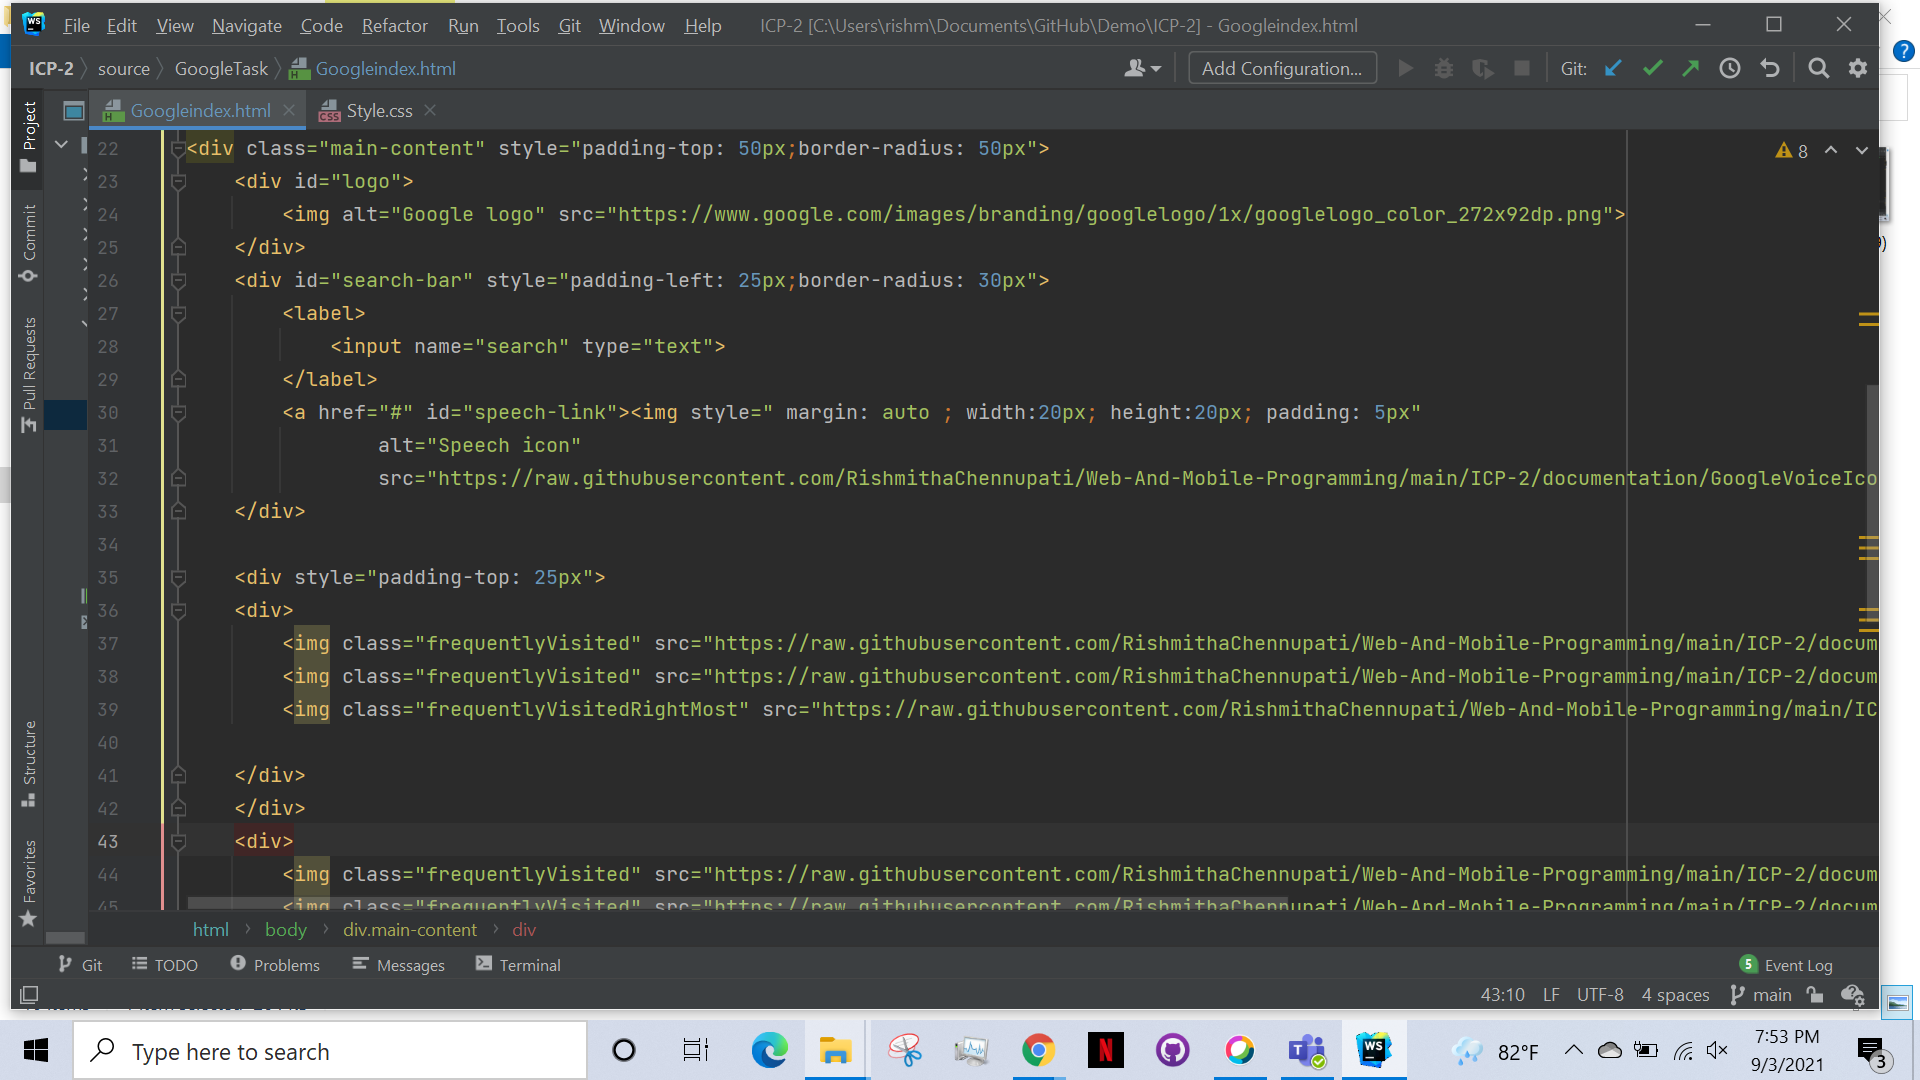
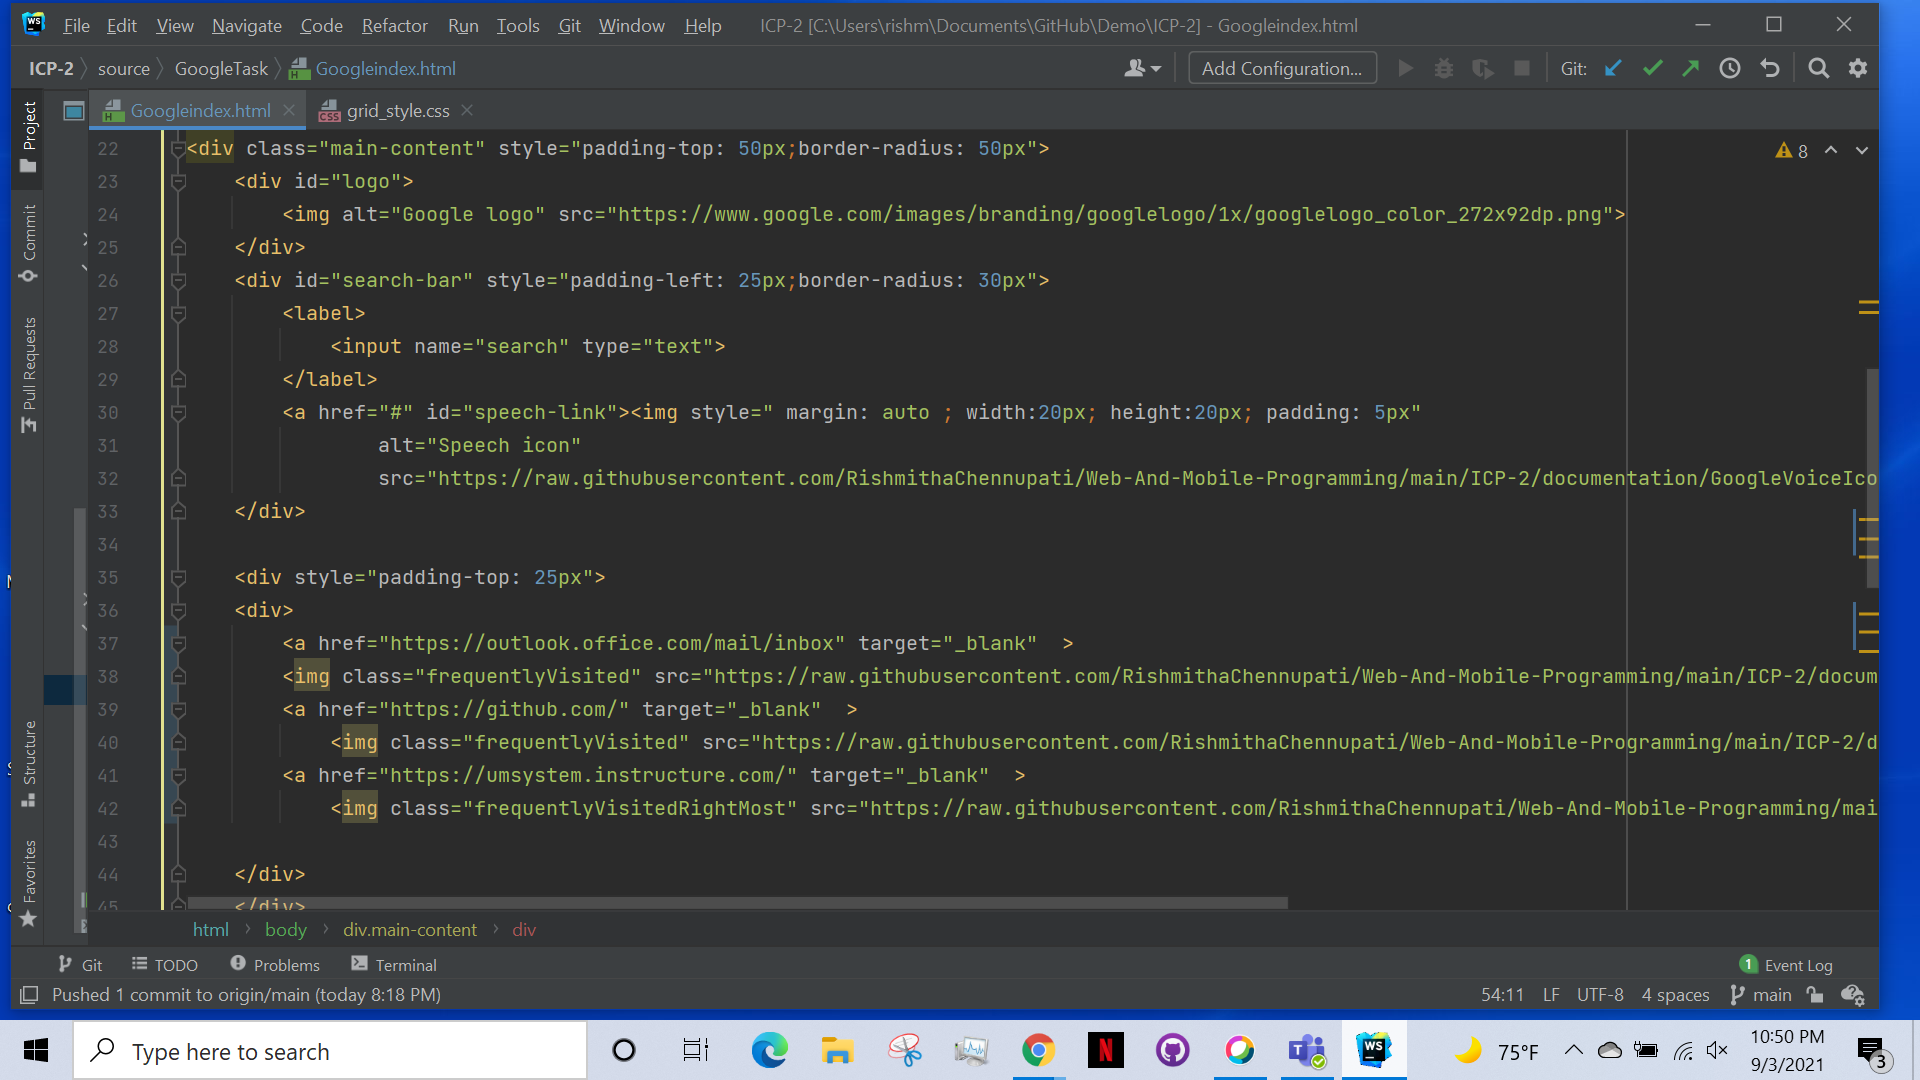
Screenshots added again

diff --git a/ICP-2/source/GoogleTask/Googleindex.html b/ICP-2/source/GoogleTask/Googleindex.html
@@ -34,16 +34,22 @@
 
     <div style="padding-top: 25px">
     <div>
-        <img class="frequentlyVisited" src="https://raw.githubusercontent.com/RishmithaChennupati/Web-And-Mobile-Programming/main/ICP-2/documentation/Outlook.png">
-        <img class="frequentlyVisited" src="https://raw.githubusercontent.com/RishmithaChennupati/Web-And-Mobile-Programming/main/ICP-2/documentation/githubIcon.png">
-        <img class="frequentlyVisitedRightMost" src="https://raw.githubusercontent.com/RishmithaChennupati/Web-And-Mobile-Programming/main/ICP-2/documentation/canvasIcon.png">
+        <a href="https://outlook.office.com/mail/inbox" target="_blank"  >
+        <img class="frequentlyVisited" src="https://raw.githubusercontent.com/RishmithaChennupati/Web-And-Mobile-Programming/main/ICP-2/documentation/Outlook.png"></a>
+        <a href="https://github.com/" target="_blank"  >
+            <img class="frequentlyVisited" src="https://raw.githubusercontent.com/RishmithaChennupati/Web-And-Mobile-Programming/main/ICP-2/documentation/githubIcon.png"></a>
+        <a href="https://umsystem.instructure.com/" target="_blank"  >
+            <img class="frequentlyVisitedRightMost" src="https://raw.githubusercontent.com/RishmithaChennupati/Web-And-Mobile-Programming/main/ICP-2/documentation/canvasIcon.png"></a>
 
     </div>
     </div>
     <div>
-        <img class="frequentlyVisited" src="https://raw.githubusercontent.com/RishmithaChennupati/Web-And-Mobile-Programming/main/ICP-2/documentation/stackoverflow.jpg">
-        <img class="frequentlyVisited" src="https://raw.githubusercontent.com/RishmithaChennupati/Web-And-Mobile-Programming/main/ICP-2/documentation/umkc.png">
-        <img class="frequentlyVisitedRightMost" src="https://raw.githubusercontent.com/RishmithaChennupati/Web-And-Mobile-Programming/main/ICP-2/documentation/Wikipedia-logo.png">
+        <a href="https://talent.stackoverflow.com/users/login" target="_blank"  >
+            <img class="frequentlyVisited" src="https://raw.githubusercontent.com/RishmithaChennupati/Web-And-Mobile-Programming/main/ICP-2/documentation/stackoverflow.jpg"></a>
+        <a href="https://www.umkc.edu/" target="_blank"  >
+            <img class="frequentlyVisited" src="https://raw.githubusercontent.com/RishmithaChennupati/Web-And-Mobile-Programming/main/ICP-2/documentation/umkc.png"></a>
+        <a href="https://www.wikipedia.org/" target="_blank"  >
+            <img class="frequentlyVisitedRightMost" src="https://raw.githubusercontent.com/RishmithaChennupati/Web-And-Mobile-Programming/main/ICP-2/documentation/Wikipedia-logo.png"></a>
 
     </div>
 </div>
